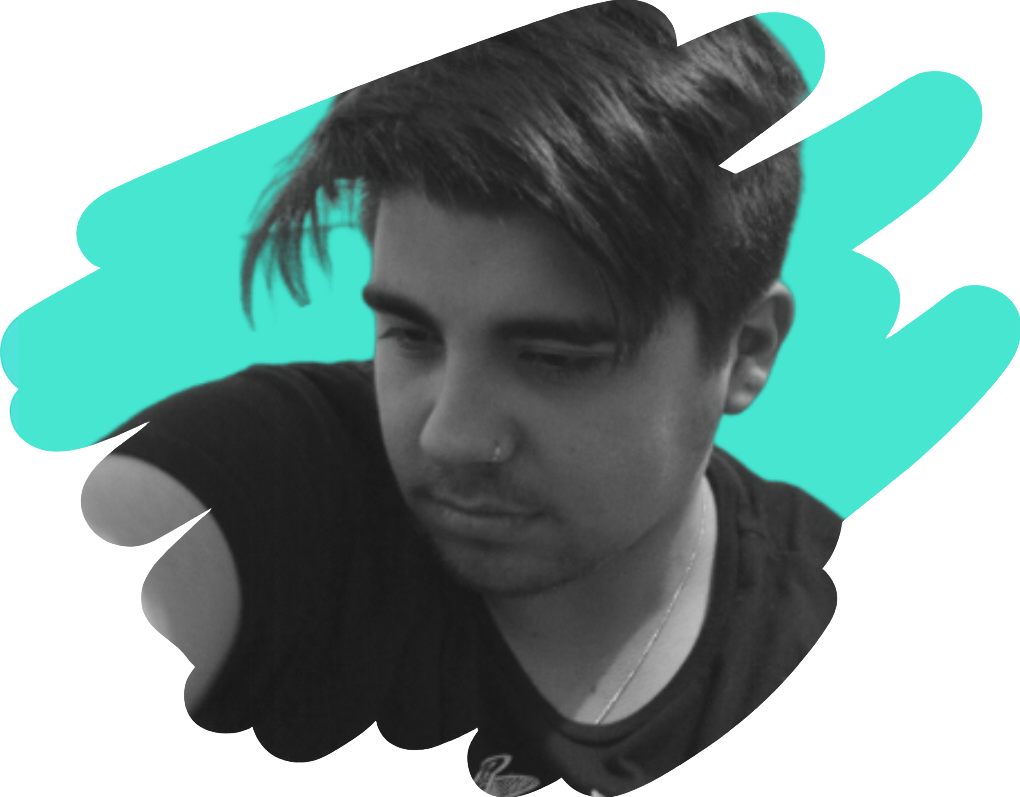
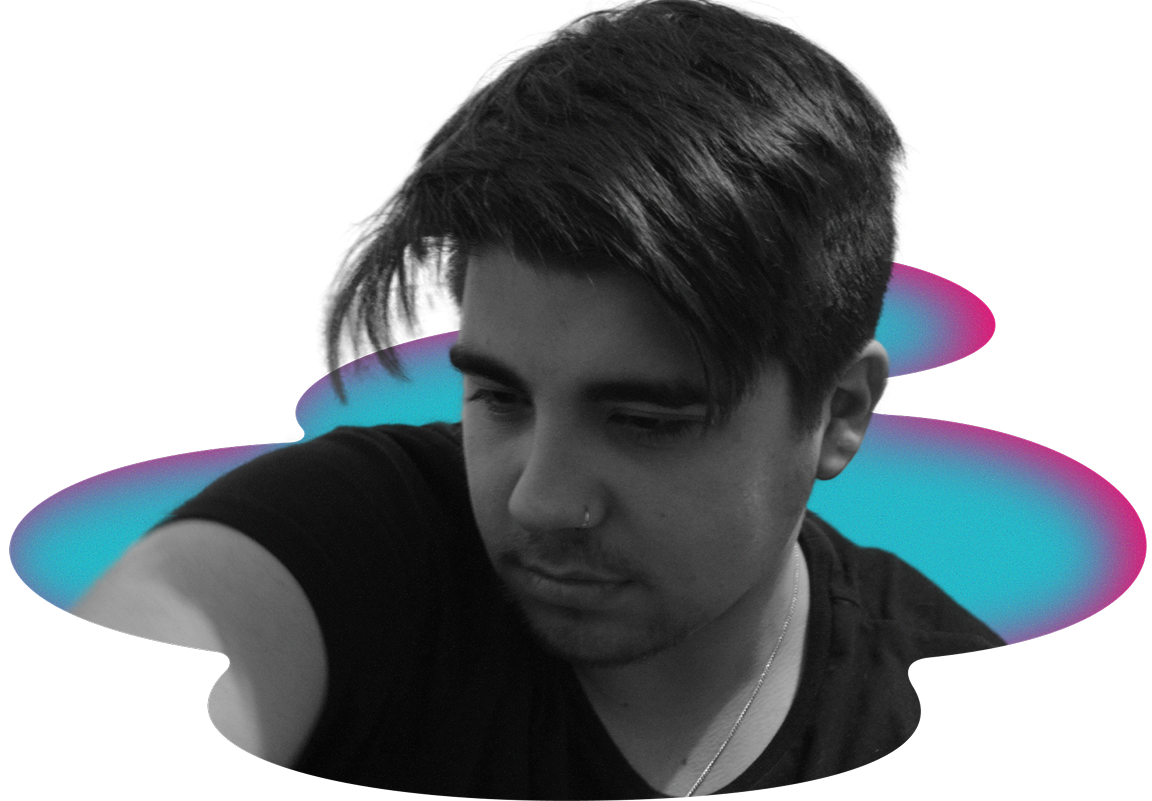
nuevo bg y foto

diff --git a/styles.css b/styles.css
@@ -44,7 +44,7 @@ body {
   color: #fff;
   padding: 12px;
   box-sizing: border-box;
-  background: url("/images/w.png") no-repeat center center;
+  background: url("/images/w.svg") no-repeat center center;
   background-size: cover;
   overflow: hidden;
 }
@@ -255,7 +255,7 @@ body {
 /* ESCRITORIO >=1025px */
 @media (min-width: 1025px) {
   .section {
-    background: url("/images/bg.png") repeat;
+    background: url("/images/w.svg") repeat;
     background-size: 60%;
   }
 
